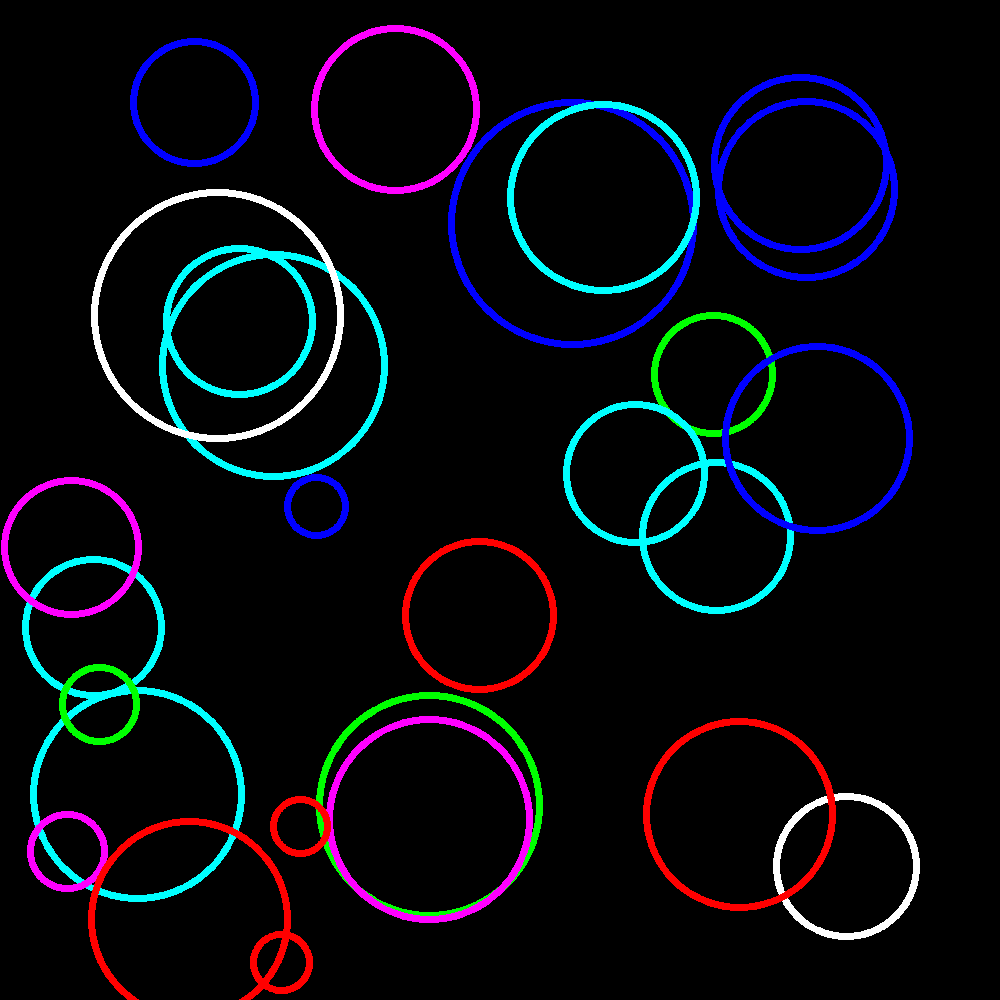
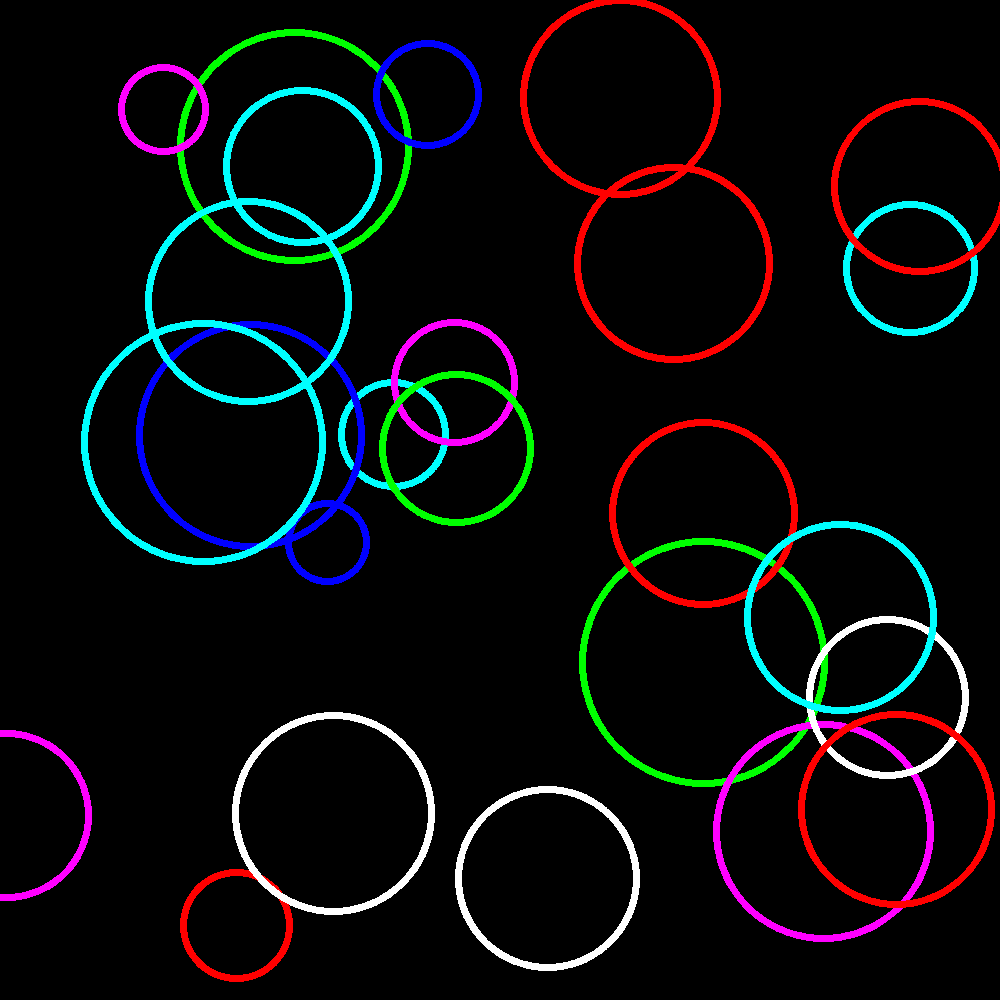
added square generation

diff --git a/GeoShapesGenerator.py b/GeoShapesGenerator.py
@@ -1,6 +1,7 @@
 import numpy as np
 import cv2 as cv
 import random
+import math
 
 
 class GeoShapesGenerator:
@@ -13,10 +14,11 @@ class GeoShapesGenerator:
         self.random_max_size = int(0.25 * image_size)
         self.number_of_random_shapes = 20
         self.colors = [(0, 0, 255), (0, 255, 0), (255, 0, 0),
-                       (255, 255, 0), (255, 255, 0), (255, 0, 255), (255, 255, 255)]
-        self.shapes = ["C"]
+                       (255, 255, 0), (255, 255, 0), (255, 0, 255)]
+        self.shapes = ["C", "S"]
         self.thickness = 5
         self.border_size = 1
+        self.border_emptiness_thresh = 0.95
 
     def set_parameters(self, image_size: int, pieces: int) -> "GeoShapesGenerator":
         self.image_size = image_size
@@ -24,13 +26,22 @@ class GeoShapesGenerator:
         return self
 
     def generate_image(self) -> "GeoShapesGenerator":
-        def draw_square() -> None:  # TODO
+        def draw_square(center: tuple[int, int], radius: int, color: tuple[int, int, int]) -> None:
+            angle = random.randint(0, 89)
+            points = []
+            for _ in range(4):
+                x_shift = int(radius * math.cos(math.radians(angle)))
+                y_shift = int(radius * math.sin(math.radians(angle)))
+                corner = [center[0] + x_shift, center[1] + y_shift]
+                points.append(corner)
+                angle += 90
+            points = np.int32([points])
+            cv.polylines(self.image, points, True, color, self.thickness)
+
+        def draw_traingle(center: tuple[int, int], radius: int, color: tuple[int, int, int]) -> None:  # TODO
             pass
 
-        def draw_traingle() -> None:  # TODO
-            pass
-
-        def generate_possible_edges(y: int, x: int) -> list[set[int]]:
+        def generate_possible_edges(y: int, x: int) -> list[tuple[int, int]]:
             edges = []
             if y != 0:  # top
                 y_pos = random.randint(
@@ -92,11 +103,11 @@ class GeoShapesGenerator:
                 else:
                     black_percentage = 1
 
-                if black_percentage > 0.97:
+                if black_percentage > 0.95:
                     color = self.colors[random.randrange(0, len(self.colors))]
                     shape = self.shapes[random.randrange(0, len(self.shapes))]
                     radius = random.randint(
-                        (int)(self.tile_size * 0.8), self.tile_size) // 2
+                        int(self.tile_size * 0.8), int(self.tile_size)) // 2
 
                     edges = generate_possible_edges(y, x)
                     edge = random.choice(edges)
@@ -104,7 +115,8 @@ class GeoShapesGenerator:
                     center = (y_pos, x_pos)
 
                     if shape == "C":
-                        cv.circle(self.image, center, radius, color, 5)
+                        cv.circle(self.image, center, radius,
+                                  color, self.thickness)
                     elif shape == "S":
                         draw_square(center, radius, color)
                     elif shape == "T":
@@ -125,4 +137,5 @@ class GeoShapesGenerator:
             return self
 
 
-GeoShapesGenerator(1000, 5).generate_image().save_image("Peter.png")
+# cv.imshow("Image", GeoShapesGenerator(1000, 5).generate_image().get_image())
+# cv.waitKey(0)

diff --git a/main.py b/main.py
@@ -1,0 +1,12 @@
+from GeoShapesGenerator import GeoShapesGenerator
+from GridGenerator import GridGenerator
+import cv2 as cv
+
+tiles = 10
+image_size = 1000
+image = GeoShapesGenerator(image_size, tiles).generate_image().get_image()
+grid = GridGenerator(image_size, tiles).generate_grid().get_grid()
+cv.imwrite("puzzle.png", image)  # TODO test v unity
+cv.imwrite("grid.png", grid)
+cv.imshow("Image", cv.bitwise_or(grid, image))
+cv.waitKey(0)

diff --git a/Testing.py b/Testing.py
@@ -6,7 +6,7 @@ IMAGE_SIZE = 1000
 PIECES = 5
 COLORS = [(0, 0, 255), (0, 255, 0), (255, 0, 0),
           (255, 255, 0), (255, 255, 0), (255, 0, 255), (255, 255, 255)]
-SHAPES = ["C"]
+SHAPES = ["S"]
 RANDOM_MIN_SIZE = 50
 RANDOM_MAX_SIZE = 250
 NUMBER_OF_RANDOM_SHAPES = 20
